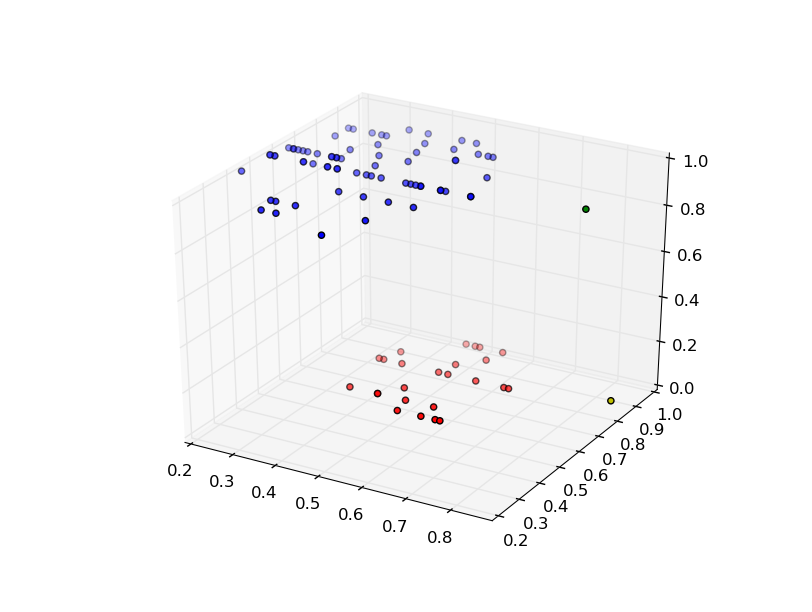
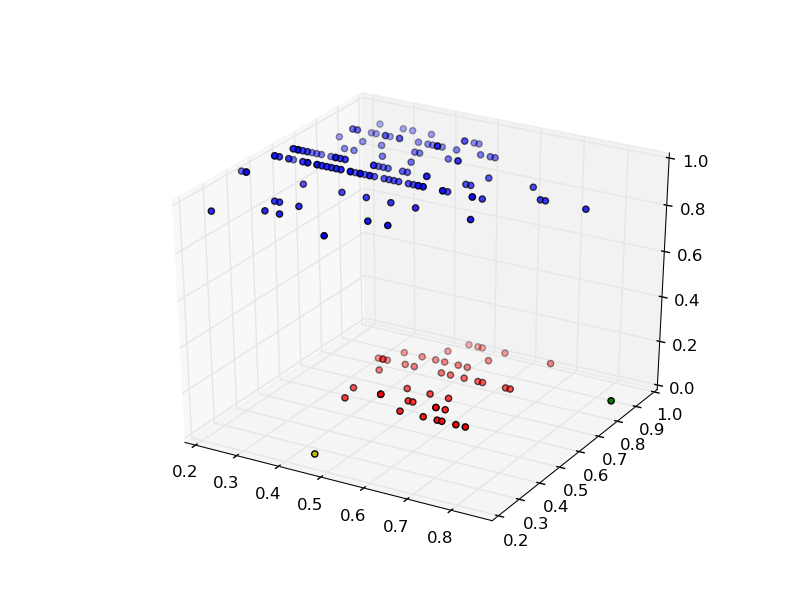
more writeup

diff --git a/hw3/clust.py b/hw3/clust.py
@@ -7,11 +7,11 @@ import random
 import utils
 import numpy
 import math
-import autoclassprime
+import autoclass
 
 #from autoclass import AutoClass
-#from mpl_toolkits.mplot3d import Axes3D
-#import matplotlib.pyplot as plt
+from mpl_toolkits.mplot3d import Axes3D
+import matplotlib.pyplot as plt
 
 DATAFILE = "adults.txt"
 #DATAFILE = "adults-small.txt"
@@ -166,7 +166,7 @@ def k_means(xs, numExamples,numClusters):
       #  print "mean of cluster ",i, " is ", means[i]
 
     print "mean_squared is ", mean_squared(means, rlist, xs)
-
+    
 
 #metrics for HAC:
 def Distance(xs,ys):
@@ -184,9 +184,10 @@ def mean_metric(A,B):
     return total/float(len(A)*len(B))
 
 def cent_metric(A,B):
-    Asum = reduce(sum_vecs,A)
-    Bsum = reduce(sum_vecs,B)
-    return [a/float(len(A)) - b/float(len(B)) for a,b in zip(Asum,Bsum)]
+    Asum = [x/float(len(A)) for x in reduce(sum_vecs,A)]
+    Bsum = [x/float(len(B)) for x in reduce(sum_vecs,B)]
+    
+    return Distance(Asum,Bsum)#[a/float(len(A)) - b/float(len(B)) for a,b in zip(Asum,Bsum)]
 
 
 def mean_of_cluster(clust):
@@ -319,7 +320,7 @@ def main():
 
     #initializing the data, just so we don't have to carry around everything
     #might want to randomize...
-    
+    k_means(xs,numExamples,numClusters)
     #print "k-means results ... "
     #for numClusters in range(1, 11):
      #   k_means(xs,numExamples,numClusters)
@@ -330,12 +331,12 @@ def main():
     #    print "using metric", i
     #    HAC(xs,numClusters,i)
     
-    autoclass = autoclassprime.AutoClass(xs, 2)
-    autoclass.Cluster()
+#    autoclass = autoclassprime.AutoClass(xs, 2)
+#    autoclass.Cluster()
 
-#    print "HAC results"
-#    print "number of clusters is ", numClusters
-#    for i in range(4):
+    print "HAC results"
+    print "number of clusters is ", numClusters
+#    for i in range(1):
 #        print "using metric", i
 #        clusters = HAC(xs,numClusters,i)
 #        for j in range(numClusters):
@@ -343,13 +344,13 @@ def main():
 #        scatter3d(clusters)
         
     
-    autoclass = AutoClass(xs,numClusters)
-    clusters,loglikely = autoclass.Cluster(100,0.01)
+#    autoclass = AutoClass(xs,numClusters)
+#    clusters,loglikely = autoclass.Cluster(100,0.01)
 #    clusters = stuff[0]
 #    loglikely = stuff[1]
  #   print loglikely
-    for i in range(numClusters):
-        print "%d: %d" %(i,len(clusters[i]))
+#    for i in range(numClusters):
+#        print "%d: %d" %(i,len(clusters[i]))
 
 
 #    plt.plot(loglikely)

diff --git a/hw3/hw3.tex b/hw3/hw3.tex
@@ -173,7 +173,11 @@ Now we calculate using the MAP model. Let's adopt the $\beta(5,3)$ prior. Then f
 \]
 so that the probability of winning the next game is $\frac{13}{17}$.
 
-Now we use the FB model. 
+Now we use the FB model, again with the $\beta(5,3)$ prior. Then we have
+\[
+\argmax_{\theta}P(\theta|D) = \int_{0}^1 \theta p(\theta|D) d\theta=\frac{5+9-1}{3+5+10-2}=\frac{13}{16}
+\]
+so that the probability of winning the next game is $\fac{13}{17}$.
 \noindent \textbf{Problem 5.}
 \item[a.]
 The loss function for vectors $x_1,\cdots,x_N$ with prototypes $y_1,\cdots,y_K$ and responsibilities $r_{ij}$ is
@@ -218,9 +222,10 @@ k & Mean squared distance \\
 Number of instances in each cluster by metric:
 
  \begin{tabular}{ccc}
+
   Cluster Number&Min metric &Max metric\\
  0&73&19\\
- 1&24&23\\
+ 1&25&23\\
  2&1&32\\
  3&1&26\\
  \end{tabular}
@@ -238,9 +243,9 @@ Number of instances in each cluster by metric:
 
  \begin{tabular}{ccc}
   Cluster Number&mean metric &centroid metric\\
- 0&73&9\\
- 1&25&89\\
- 2&1&1\\
+ 0&152&147\\
+ 1&46&47\\
+ 2&1&5\\
  3&1&1\\
  \end{tabular}
 
@@ -266,10 +271,7 @@ The cluster sizes were 239,394,363 and 4.
 
 \item[(c)]
 
-0: 239
-1: 394
-2: 363
-3: 4
+Autoclass takes about a minute to classify 1000 instances. K-means takes about a second. Thus K-means has a significantly better run-time than Autoclass.
 
 \end{enumerate}
 
